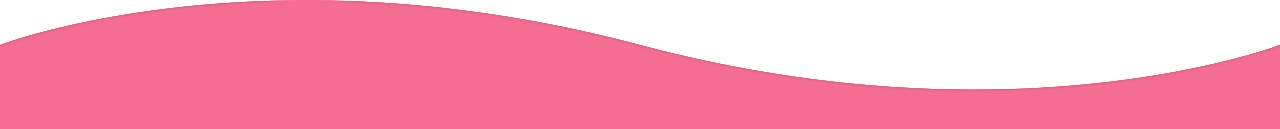
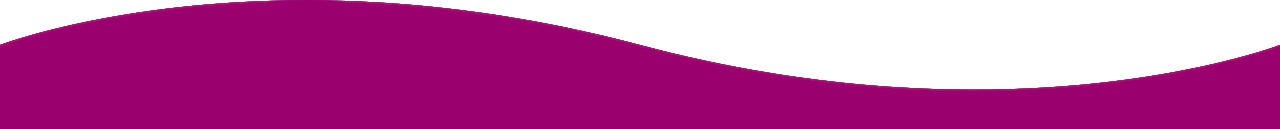
changed wave color

diff --git a/mp1.css b/mp1.css
@@ -22,9 +22,9 @@ footer {
     position: absolute;
     bottom: 0;
     width: 100%;
-    background: #EE6F93;
+    background: #971173;
     filter: opacity(1);
-    border-color: #EE6F93;
+    border-color: #971173;
     min-height: 2.5rem;
     padding-bottom: 20px;
     display: flex;
